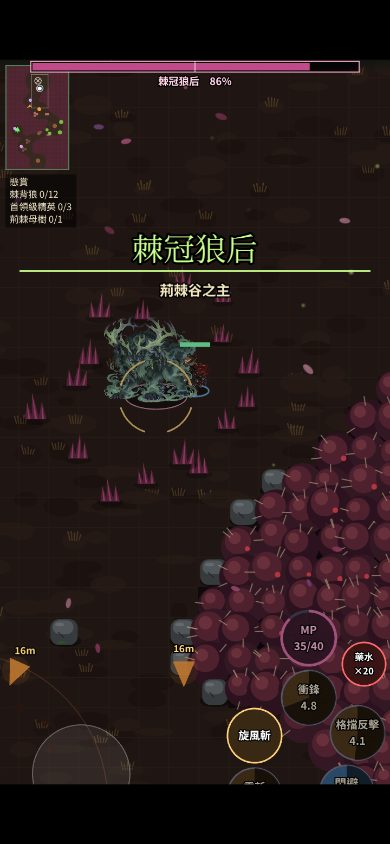
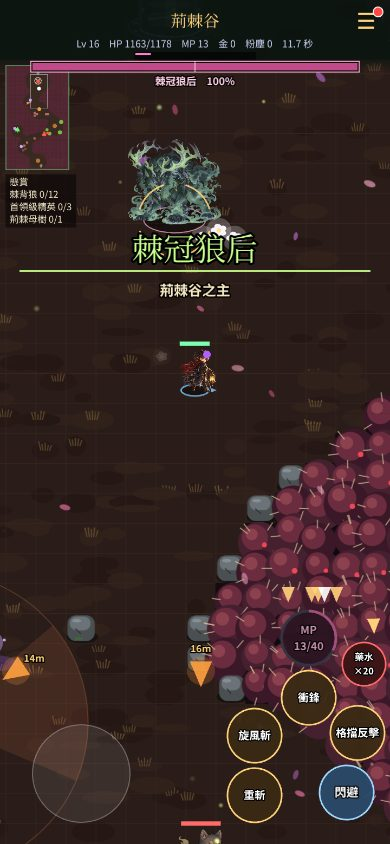
Boss 登場時不再疊字：巢穴邊的抉擇痕跡那句話、記憶卡、「這個地方似乎有點熟悉」在 Boss 開打期間（記憶卡：站在 Boss 發現範圍附近時）先等；README 截圖 38（狼后登場）、57（守望者登場）重拍
Claude-Session: https://claude.ai/code/session_01DgXGTxBidVrXajbe2Bkavf

diff --git a/src/game/scenes/RtBattleScene.ts b/src/game/scenes/RtBattleScene.ts
@@ -1697,6 +1697,9 @@ export class RtBattleScene extends Phaser.Scene {
       this.memQ = this.memLeft.splice(i, 1)[0]!;
     }
     if (this.tipBusy && this.introRun === this.busyRun) return; // 開場大字還在：等它收掉（已經記下來，走開也會想起）
+    // 第 68 輪：星隕高原的記憶點就在守望者巢穴邊，記憶卡以前蓋在 Boss 登場名字上 → Boss 開打、抉擇面板、討伐大字期間先記著，打完再想起
+    // （還沒開打但站在 Boss 發現範圍附近也先等：不然記憶卡和登場名字同一刻出現）
+    if (this.menu || this.time.now < this.slainUntil || enemiesOf(this.s).some((e) => ENEMIES[e.defId]?.boss && (e.mode === 'combat' || Math.hypot(e.x - p.x, e.y - p.y) < (aggroUnitsOf(e) + 3) * UNIT))) return;
     const mem = this.memQ;
     this.memQ = null;
     const r = recall(loadMemories(), mem.id);
@@ -1983,6 +1986,8 @@ export class RtBattleScene extends Phaser.Scene {
     if (!list?.length || this.bot) return;
     // 第 56 輪：荊棘谷出生點旁就有一個寶箱 → 幕名卡／開場說明還在播時先不提示（不然三組字疊在一起），播完再說
     if (this.tipBusy || this.time.now < this.chapterUntil || this.topCard?.active || this.time.now < this.reviveUntil) return;
+    // 第 68 輪：巢穴邊的寶箱（星隕高原）提示以前和 Boss 登場名字疊在一起 → Boss 開打期間不提示
+    if (enemiesOf(this.s).some((e) => ENEMIES[e.defId]?.boss && e.mode === 'combat')) return;
     const p = playerOf(this.s);
     for (const c of list) {
       if (c.nightOnly || this.chestHinted.has(c.id) || this.s.chestsOpened?.includes(c.id)) continue;
@@ -3790,7 +3795,8 @@ export class RtBattleScene extends Phaser.Scene {
       g.fillStyle(0x24201e, 1).fillRoundedRect(cx - 20 * k, cy - 30 * k, 40 * k, 32 * k, 8 * k);
       g.lineStyle(2 * k, 0x5a524c, 1).lineBetween(cx - 8 * k, cy - 24 * k, cx + 2 * k, cy - 12 * k).lineBetween(cx + 2 * k, cy - 12 * k, cx - 4 * k, cy - 2 * k);
     }
-    if (!this.choiceMarkSaid && !this.bot) {
+    // 第 68 輪：痕跡就在巢穴旁，走過去常常正好驚動 Boss → 那句話以前浮在 Boss 登場名字上；Boss 開打期間先不說，脫戰或討伐後再走近才說
+    if (!this.choiceMarkSaid && !this.bot && !enemiesOf(this.s).some((e) => ENEMIES[e.defId]?.boss && e.mode === 'combat')) {
       const p = playerOf(this.s);
       if (Math.hypot(p.x - x, p.y - y) < UNIT * 2.5) {
         this.choiceMarkSaid = true;
